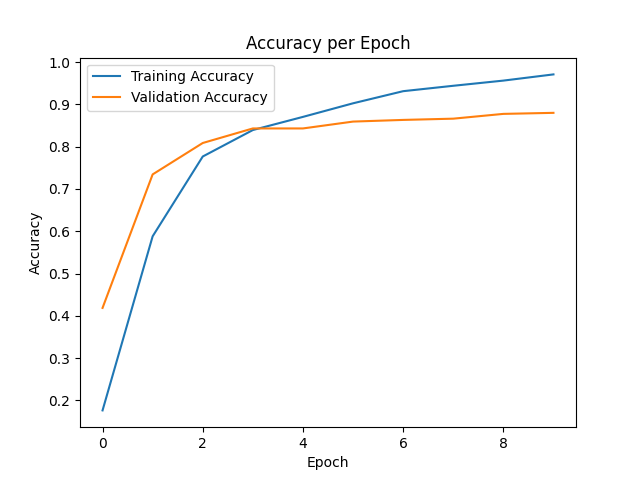
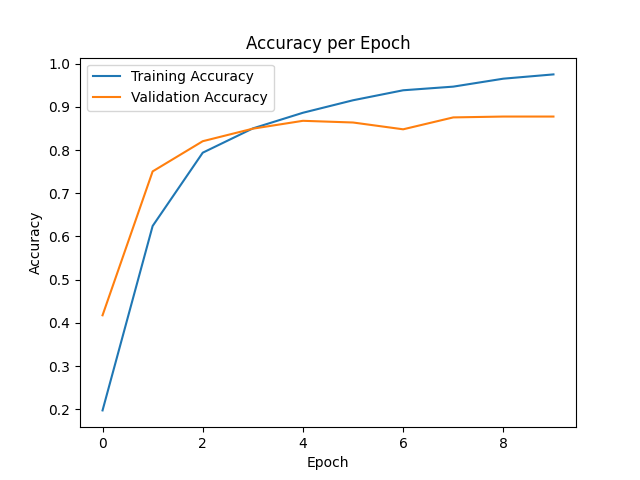
Hyper-param tuning
only best record committed

diff --git a/main.py b/main.py
@@ -70,7 +70,7 @@ def custom_train(args, model, datasets, tokenizer):
     train_dataloader = get_dataloader(args, datasets['train'], split='train')
     opt = torch.optim.SGD(model.parameters(), lr=args.learning_rate)
     
-    model.opt_setUp(opt,8,0.00525) #set up the custom schedulers
+    model.opt_setUp(opt,6,0.006) #set up the custom schedulers
     # task2: setup model's optimizer_scheduler if you have
     if args.scheduler == 'warm_up':
       steps = args.n_epochs * len(list(enumerate(train_dataloader)))
